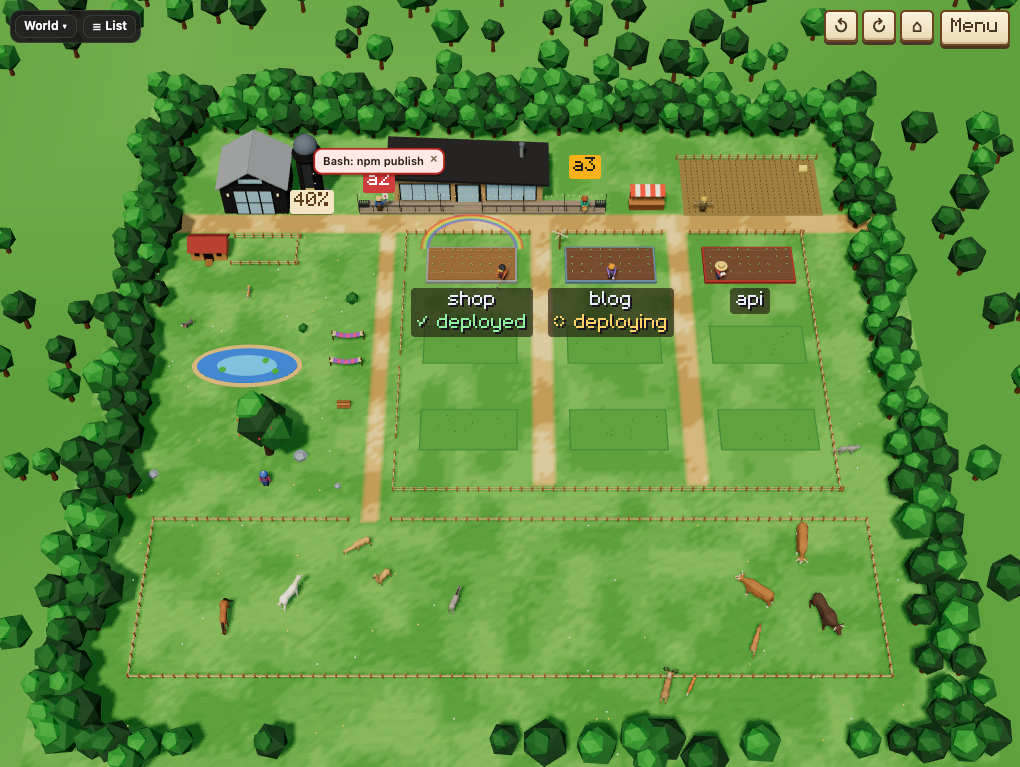
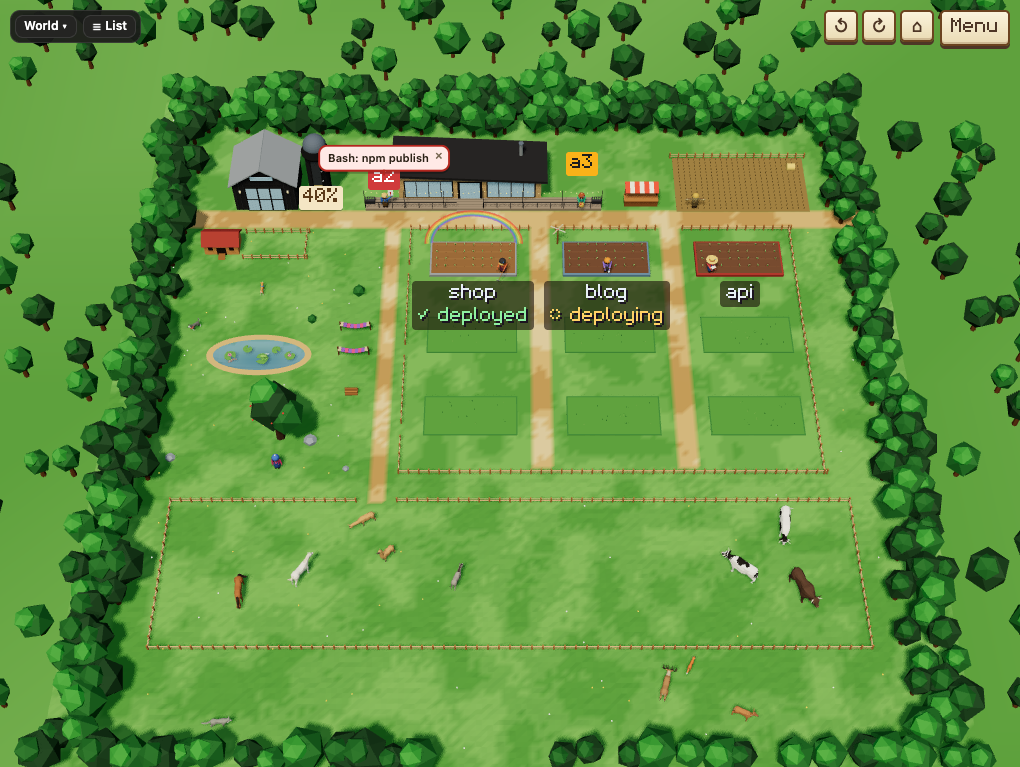
3D farm docs: spotted cows, animals that keep to their ground, the pond's frog and fish
README: the feature line (eighteen animals, the frog and fish), the section's room (the strip of
grass where the forest begins), the pond in "What it shows", the Animals bullet (white cows with
black spots; they keep to their ground, roam.js; the pond's lily pads, frog and fish, CC0 single
models, and winter's ice; the frog's and a fish's menus; the Animals switch leaves the pads), and
"What it needs" (about 6 MB, about 240 draw calls). docs/worlds.md's catalogue row: the pond's
models, the spots, roam.js, and the meadow drawn first. The Help panel and build/animals.js's
header say the same. docs/farm3d.png retaken.

diff --git a/web/worlds/farm3d/build/animals.js b/web/worlds/farm3d/build/animals.js
@@ -1,10 +1,12 @@
 // The farm's animals, just for fun, never for data: all twelve of Quaternius's Animated Animal Pack (CC0; see
 // models/LICENSE.md). Two cows, a bull, two alpacas, a donkey and two horses in the pasture; the husky (in a red
 // bandana) and the Shiba Inu (in a blue one) in the yard, so neither is taken for a dog that means something; a deer,
-// a stag, a fox and a wolf at the forest's edge. What they do is antics.js's: they walk, rest and graze, get up to
-// something now and then, rest at night, and do what you pick from an animal's menu. This draws it: each kind's model
-// loaded once (after the farm has drawn), every animal its own copy with its own animation player, playing the clip
-// for each part (models/index.js), repainted in the farm's colours and finish (coats.js). The Animals switch hides them all.
+// a stag, a fox and a wolf at the forest's edge; and in the pond his frog on his lily pads and three of his fish. What
+// they do is antics.js's, where they may go roam.js's: they walk, rest and graze, get up to something now and then,
+// rest at night, and do what you pick from an animal's menu. This draws it: each kind's model loaded once (after the
+// farm has drawn), every animal its own copy with its own animation player, playing the clip for each part
+// (models/index.js), repainted in the farm's colours and finish (coats.js), the cows spotted; the frog on a pad, the
+// fish just under the water, a splash where one breaks it. The Animals switch hides them all (not the lily pads).
 import { GLTFLoader } from '../vendor/GLTFLoader.js';
 import { clone as cloneSkinned } from '../vendor/SkeletonUtils.js';
 import { LILY_PADS, PX, WATER } from '../layout.js';

diff --git a/web/worlds/farm3d/overlay.js b/web/worlds/farm3d/overlay.js
@@ -47,7 +47,7 @@ const HELP = `<h2>The 3D farm <small>(a prototype)</small></h2>
     <dt>Weather</dt><dd>Rain: its deploy failed · a rainbow: it worked · a windmill: it runs</dd>
     <dt>Elsewhere</dt><dd>The shade tree: idle · scarecrows: stale · hammocks: it wakes up by itself · the meadow: working outside any repo · a cloud: thinking</dd>
     <dt>Silo</dt><dd>Your plan's weekly use as grain; a lamp near the limit. The season follows the 5-hour limit</dd>
-    <dt>Animals</dt><dd>Just for fun, never for data. They walk, graze and rest, and now and then get up to something. Click one for what you can ask it to do: pet it, feed it, send it running, throw the dogs a stick…</dd>
+    <dt>Animals</dt><dd>Just for fun, never for data. They walk, graze and rest, round the pond and the trees and inside their fences, and now and then get up to something; a frog and three fish live in the pond. Click one for what you can ask it to do: pet it, feed it, send it running, throw the dogs a stick, send the frog diving…</dd>
     <dt>Moving</dt><dd>Drag to pan, scroll or pinch to zoom. Right-drag (or Shift-drag) to turn and tilt the farm; ↺ ↻ (or Q / E) turn it 15°, ⌂ puts it back square-on. Click a farmer to open it; its bubble for its whole conversation; the barn to start a session</dd>
   </dl>
   <p>Not here yet: the stats panel, a field's close-up, the diary, subagents, carts, and the farmers playing with the animals.</p>`;

diff --git a/README.md b/README.md
@@ -158,9 +158,10 @@ It listens on the loopback addresses only (`127.0.0.1`, and `::1` where the mach
   there just for fun.
 - The 3D farm, a prototype: the same live farm as a low-poly diorama in 3D (three.js). Farmers walk
   the lanes with their tools, crops grow as context fills, the sun follows your clock and the seasons
-  your 5-hour limit, deploys bring rain or a rainbow, and fourteen animated animals graze, gallop and get
-  up to things (click one to pet it, feed it or throw the dogs a stick). It fills the window as the farm
-  does; turn and tilt it as you like, and zoom in to one farmer. It shows less than the farm for now.
+  your 5-hour limit, deploys bring rain or a rainbow, and eighteen animated animals graze, gallop and get
+  up to things, a frog and three fish in the pond among them (click one to pet it, feed it, throw the
+  dogs a stick or send the frog diving). It fills the window as the farm does; turn and tilt it as you
+  like, and zoom in to one farmer. It shows less than the farm for now.
 - The farm, the factory, the field exercise and the 3D farm are worlds: each runs in a sandboxed frame
   of its own, with no access to the token, and asks the page for the little it needs
   ([docs/worlds.md](docs/worlds.md)). A world from your own folder sees no words or paths until
@@ -1272,13 +1273,13 @@ in the list of worlds (**World**). It is a prototype, to see how a farm in 3D fe
 farm's own rules, so every farmer stands where the farm would put it and every repo lies in the bed the
 farm gives it (when both are opened fresh), but it shows less than the farm for now. It has more room
 than the farm: 5 m walkways and rows between the fields, farmers 4 m apart on a longer deck, a wider yard,
-and a fenced pasture across the front.
+a fenced pasture across the front, and a strip of grass under it where the forest begins.
 
 ![The 3D farm: the farm as a low-poly diorama](docs/farm3d.png)
 
 **What it shows.** The farmstead (the black barn, the silo with your plan's week as grain and a lamp near
 the limit, the timber farmhouse and its deck, your porch, with string lights), a raised bed for each repo
-in the fenced grid, the yard with the henhouse, the pond, the hammocks and the shade tree, the scarecrow
+in the fenced grid, the yard with the henhouse, the pond (clear water over a muddy hollow, lily pads), the hammocks and the shade tree, the scarecrow
 patch, the pasture across the front, and the meadow and the forest running on all round.
 - **Farmers** are figurines dressed as on the farm: the agent's colour for the shirt, a hat by its id
   with the model's pin, and the tool for its step in hand (a hoe for edits, an almanac for reads, a crate
@@ -1297,20 +1298,29 @@ patch, the pasture across the front, and the meadow and the forest running on al
   [Animated Animal Pack](https://poly.pizza/bundle/Animated-Animal-Pack-ILAPXeUYiS) (CC0), each playing
   its own animations, and repainted to match the farm: lighter, warmer colours in the farm's matte
   finish, where the models come darker and partly metallic (`web/worlds/farm3d/coats.js`, a colour for
-  each part of each animal; the eyes keep theirs). Two cows, a bull, two alpacas, a donkey and two horses graze in the pasture; a husky
-  in a red bandana and a Shiba Inu in a blue one (so neither is taken for a dog that means something) run
-  about the yard; a deer, a stag, a fox and a wolf keep to the forest's edge. They walk, graze and rest,
-  and now and then get up to something of their own: a look round, a sniff, a hop, a fly to shake off, a
-  gallop and a leap, the donkey kicking up its heels, the bull and the stag butting the air, the dogs
-  running laps and pouncing, the fox mousing. At night they stand and rest.
+  each part of each animal; the eyes keep theirs). Two cows, white with black spots (each her own), a
+  bull, two alpacas, a donkey and two horses graze in the pasture; a husky in a red bandana and a Shiba
+  Inu in a blue one (so neither is taken for a dog that means something) run about the yard; a deer, a
+  stag, a fox and a wolf keep to the forest's edge, a strip of grass between the pasture's fence and the
+  trees. They walk, graze and rest, and now and then get up to something of their own: a look round, a
+  sniff, a hop, a fly to shake off, a gallop and a leap, the donkey kicking up its heels, the bull and
+  the stag butting the air, the dogs running laps and pouncing, the fox mousing. At night they stand and
+  rest.
+  - **They keep to their ground**, all of their body: one walks only where the way there is clear, round
+    the pond, the trees, the bushes and rocks, never through a fence, and a gallop comes back the way it
+    went (`web/worlds/farm3d/roam.js`).
+  - **The pond**: Quaternius's lily pads (two in flower), his frog and three of his fish (single models,
+    CC0). A trout, a koi and a roach swim just under the surface and now and then leap out with a
+    splash; the frog sits on a pad, hops pad to pad, snaps at flies, and dives, to come up on a pad a
+    while later. In winter the pond is ice and they are out of sight.
   - **Click one for its menu**: Pet, Feed, Run (a gallop out and back), Leap, Hop, Sniff, Look around and
     Play dead (it falls over, lies still, and gets up again), with Kick and Headbutt for the hoofed ones,
     Pounce for the dogs, the fox and the wolf, and Throw a stick for the dogs (the dog runs for it and
-    brings it back). Esc or a click elsewhere shuts it. With **Motion** off they stand still and the menu
-    says so.
+    brings it back). The frog's: Hop, Catch a fly, Dive and Play dead; a fish's: Leap. Esc or a click
+    elsewhere shuts it. With **Motion** off they stand still and the menu says so.
   - They load just after the farm (a moment's pause the first time), and **Animals** in the Menu hides
-    them. `web/worlds/farm3d/models/LICENSE.md` lists each model, and `npm run farm3d-animals` makes them
-    again from poly.pizza.
+    them (not the lily pads). `web/worlds/farm3d/models/LICENSE.md` lists each model, and
+    `npm run farm3d-animals` makes them again from poly.pizza.
 - **Names and bubbles**: a farmer's name (in the farm's pixel font) shows when it needs you, when its turn
   ended, when you pick it or point at it, and for every farmer once you zoom in; pointing at a farmer also
   shows what it is doing, as its name's tooltip does. Its speech bubble shows for one that needs you or
@@ -1336,8 +1346,8 @@ without it the world says so and you can pick another. It uses the graphics card
 second, and draws nothing while the page shows its list or the tab is hidden; with **Motion** off (or
 reduced motion) it draws only when something changes. three.js (0.186.1, MIT licence; with its glTF loader
 for the animals) is part of Agentville, in `web/worlds/farm3d/vendor/`, and the animals' models are in
-`web/worlds/farm3d/models/` (about 5 MB, packed into JS files the world imports; the fourteen animals add
-about 200 draw calls, shadows included): nothing is downloaded from anywhere, and the world sees the same
+`web/worlds/farm3d/models/` (about 6 MB, packed into JS files the world imports; the eighteen animals and
+the lily pads add about 240 draw calls, shadows included): nothing is downloaded from anywhere, and the world sees the same
 scene as the farm and sends nothing.
 
 ### Notifications and the bell

diff --git a/docs/worlds.md b/docs/worlds.md
@@ -37,7 +37,7 @@ Keys: a built-in world is named by its folder in `web/worlds/` (the farm is `far
 | 🌾 **Farm** | `farm` | Built in, and the default: every agent a farmer, every repo a field, with animals of its own. The README's "The farm" says what each thing on it means |
 | 🤖 **Robot factory** | `factory` | Built in: a bright workshop where every agent is a robot put together from parts picked by its id, and every repo an assembly bay where a robot is built as the context fills. It shows everything the farm shows, its own way: the 5-hour limit is floor heat (its season switch is **Heat**: `seasonNames`), a message is a capsule through pneumatic tubes (its own `flight`), and its panel and Menu are the farm's (`panelHud`) in its words. A robot dog, a robot vacuum and a cat live there. `factory.png` below is taken from the golden `factory-day` view (`npm run golden`, the factory chosen by day, animals off), so retake it from that view. The README's "The robot factory" says what each thing means; `web/worlds/factory/world.js` is the second full example after the farm |
 | 🎖 **Field exercise** | `military` | Built in: a bright, friendly army base on manoeuvres where every agent is a soldier in a field jacket of its colour (the people kit's `jacket`), and every repo a position fortified as the context fills, until its flag is raised. It shows everything the farm shows, its own way, and nobody is ever shown hurt: the 5-hour limit is the alert level (its season switch is **Alert**: `seasonNames`; its `coldSeason` is `null`, so its animals never act cold at max), a message is the engine's carrier pigeon, and its panel and Menu are the farm's (`panelHud`) in drill words. The regimental mascots live there: a goat in a red dress coat (the goat's `mascot` look), the mess cat and two depot mice. `military.png` below is taken from the golden `military-day` view (`npm run golden`, the field exercise chosen by day, animals off), so retake it from that view. The README's "The field exercise" says what each thing means; `web/worlds/military/world.js` is the third full example |
-| 🚜 **3D farm** | `farm3d` | Built in, a prototype: the farm drawn in 3D with three.js, a low-poly diorama. It is the example of a world that draws itself (`Agentville.raw`) and imports ES modules from its own folder (`world.js` registers, then `import('./app.js')`; see "Modules", in "Running a world"), with three.js 0.186.1 copied into its `vendor/` (the frame may load scripts from the dashboard only) and every shape built in code (a frame can't fetch a model file, and the dashboard's pictures can't be WebGL textures), but for its animals: the twelve animated models of a CC0 pack, packed into JS files in its `models/` and read with three.js's glTF loader (see "Modules"), then repainted as they load from its `coats.js` (a colour for each of a model's materials, by the material's name, and the farm's matte finish), so the model files stay as their maker made them. What they get up to, their habits and the menu a click on one opens, is plain logic in its `antics.js`, apart from three.js, so its tests run it in Node; the animals' hit boxes are invisible meshes the click's ray finds. It follows the farm's rules from the scene (its `model.js`, whose copies of the farm's tables and rules `collector/test/farm3d.test.mjs` pins to the farm's own), and shows less than the farm for now (the README's "The 3D farm (prototype)"). `farm3d.png` below is taken from `npm run world-shots -- farm3d --stop everyone`, cropped to the world. check-world can't run it (its vm has no modules or WebGL) and says so; `npm run farm3d-check` checks it in headless Chrome |
+| 🚜 **3D farm** | `farm3d` | Built in, a prototype: the farm drawn in 3D with three.js, a low-poly diorama. It is the example of a world that draws itself (`Agentville.raw`) and imports ES modules from its own folder (`world.js` registers, then `import('./app.js')`; see "Modules", in "Running a world"), with three.js 0.186.1 copied into its `vendor/` (the frame may load scripts from the dashboard only) and every shape built in code (a frame can't fetch a model file, and the dashboard's pictures can't be WebGL textures), but for its animals: the twelve animated models of a CC0 pack and, for its pond, a frog, three fish and a lily pad (CC0 single models), packed into JS files in its `models/` and read with three.js's glTF loader (see "Modules"), then repainted as they load from its `coats.js` (a colour for each of a model's materials, by the material's name, and the farm's matte finish; the cows' spots a colour per face), so the model files stay as their maker made them. What they get up to, their habits and the menu a click on one opens, is plain logic in its `antics.js`, and where they may go (each herd's ground less the pond, the trees and the fences, for a body of its size; the pond's water and lily pads) is its `roam.js`, both apart from three.js, so its tests run them in Node; the animals' hit boxes are invisible meshes the click's ray finds. The far meadow under the farm is drawn first and hides nothing (`depthWrite` off), so the pond's hollow and its fish can lie below it. It follows the farm's rules from the scene (its `model.js`, whose copies of the farm's tables and rules `collector/test/farm3d.test.mjs` pins to the farm's own), and shows less than the farm for now (the README's "The 3D farm (prototype)"). `farm3d.png` below is taken from `npm run world-shots -- farm3d --stop everyone`, cropped to the world. check-world can't run it (its vm has no modules or WebGL) and says so; `npm run farm3d-check` checks it in headless Chrome |
 | 🌱 **Starter** | `starter` | The template `npm run new-world` copies: plain, short, and not in the list of worlds (see "The starter world"). It can still be framed, so the test page and `check-world` run it |
 
 ![The farm: every agent a farmer, every repo a field](farm.png)
